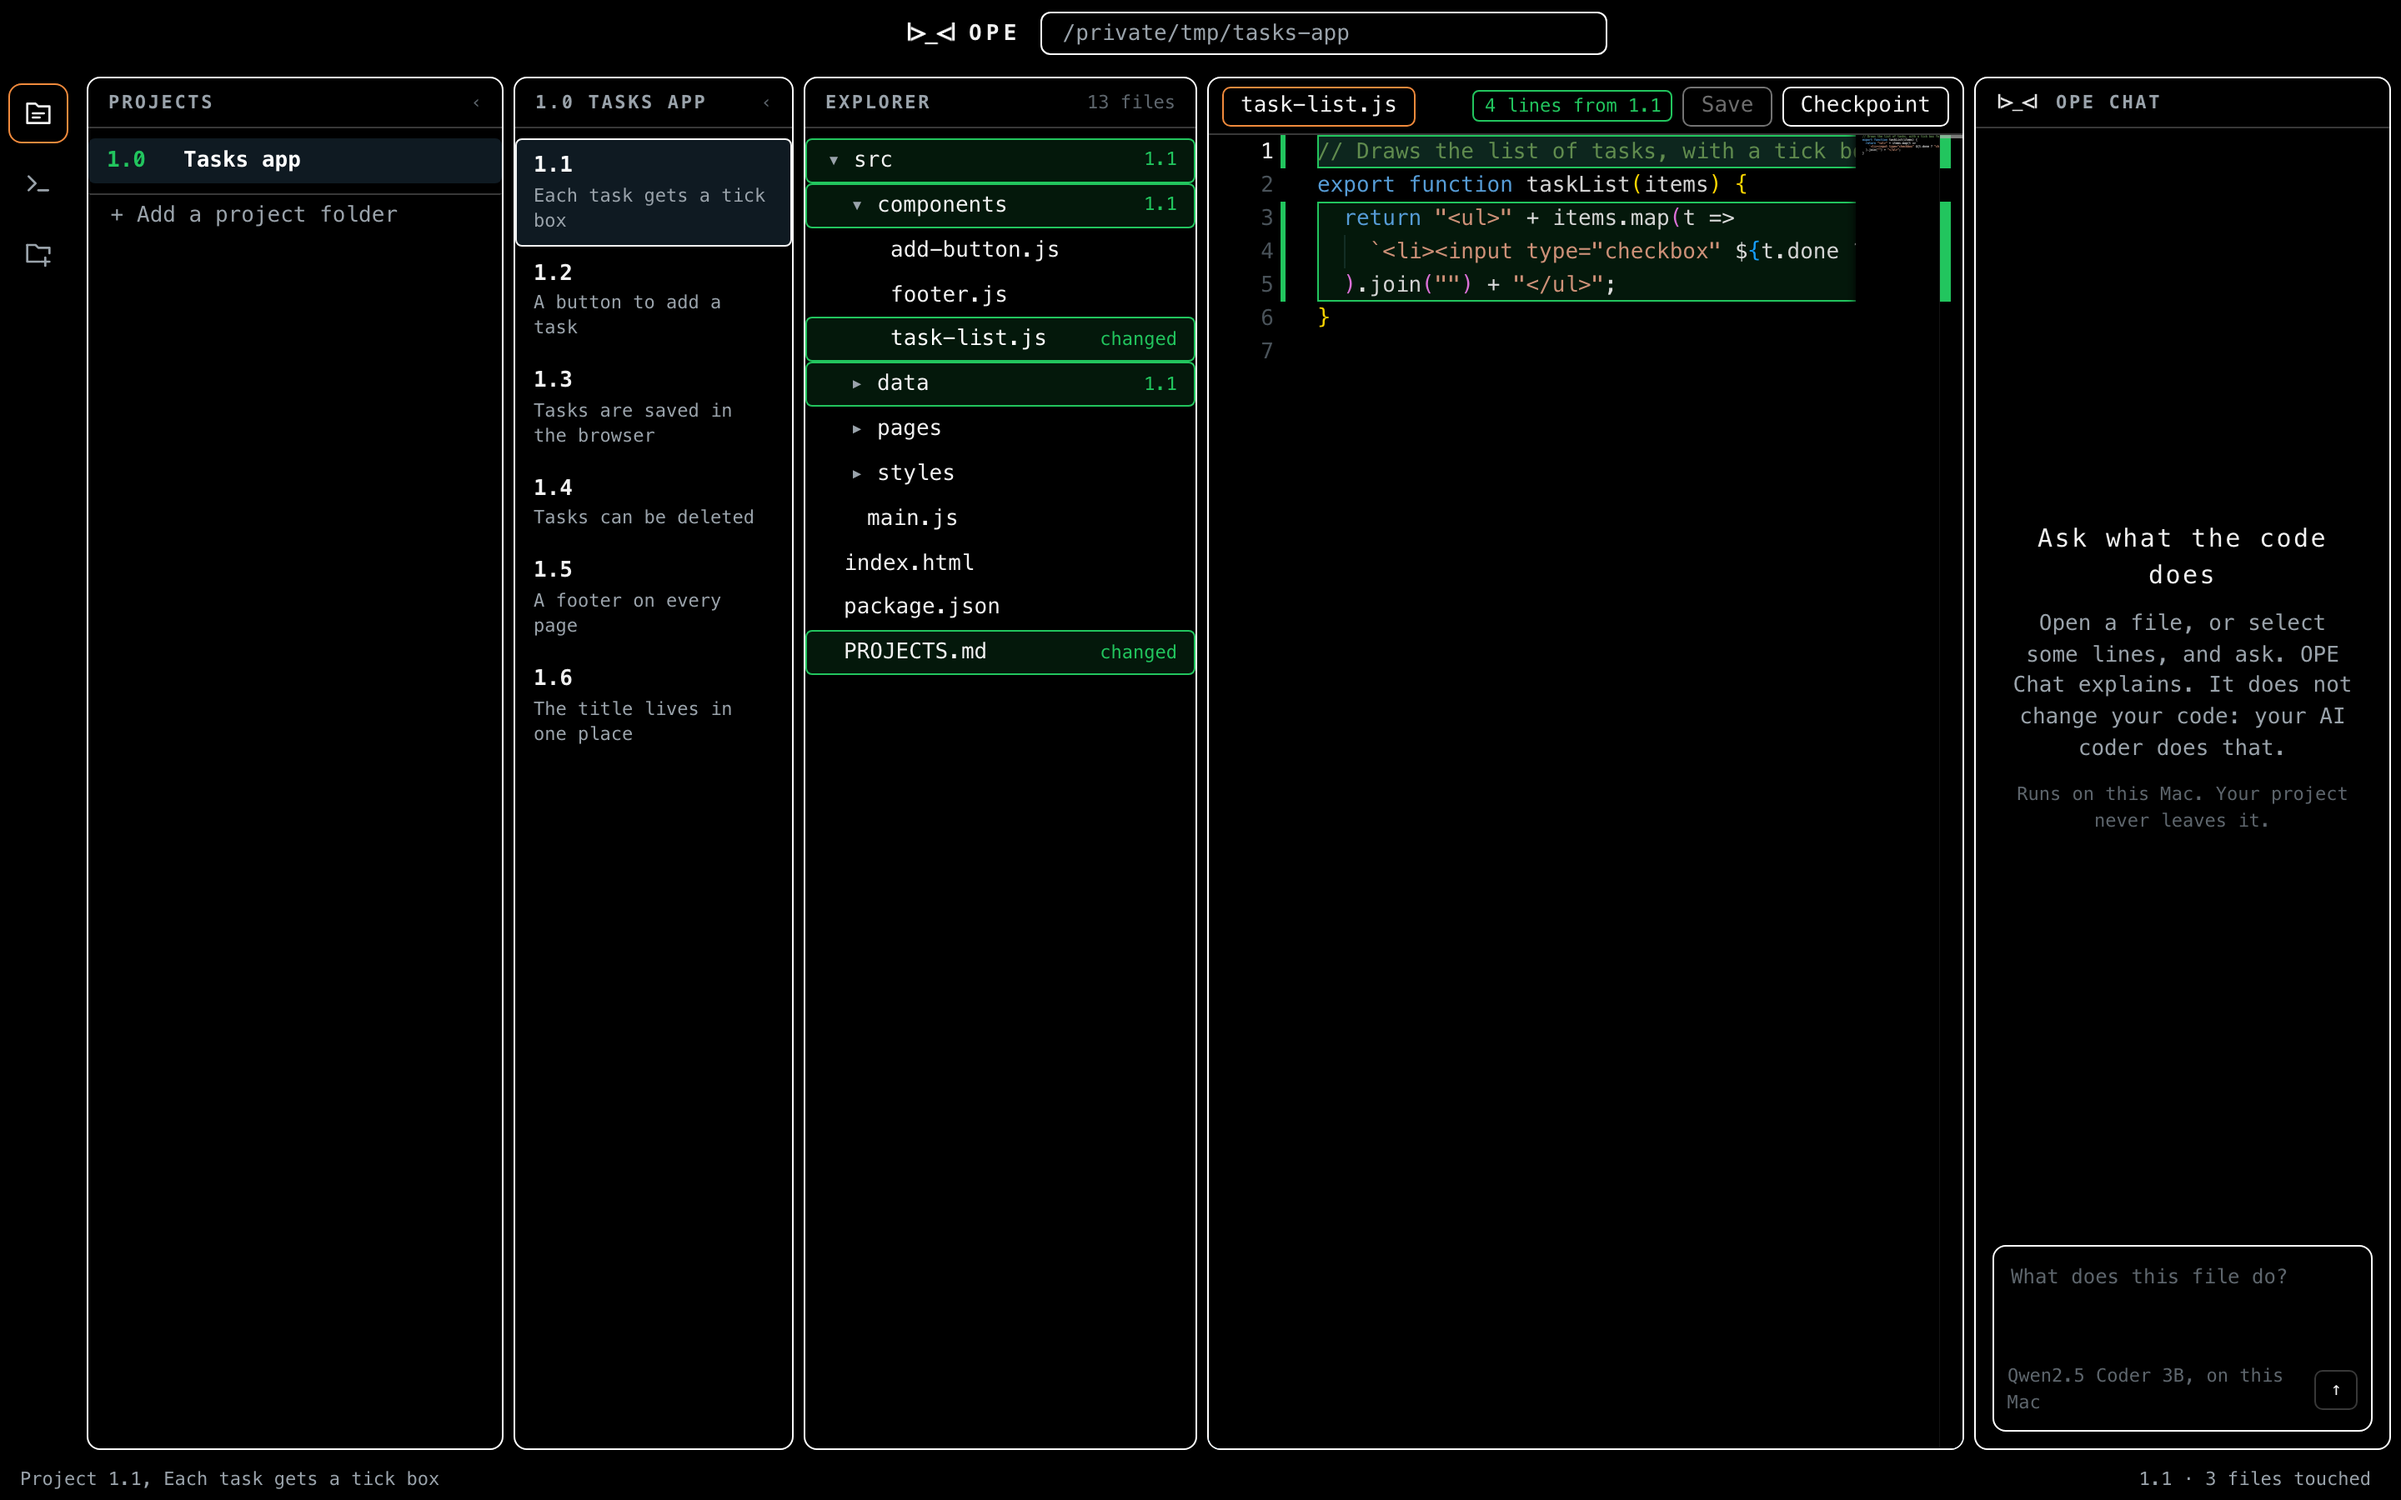
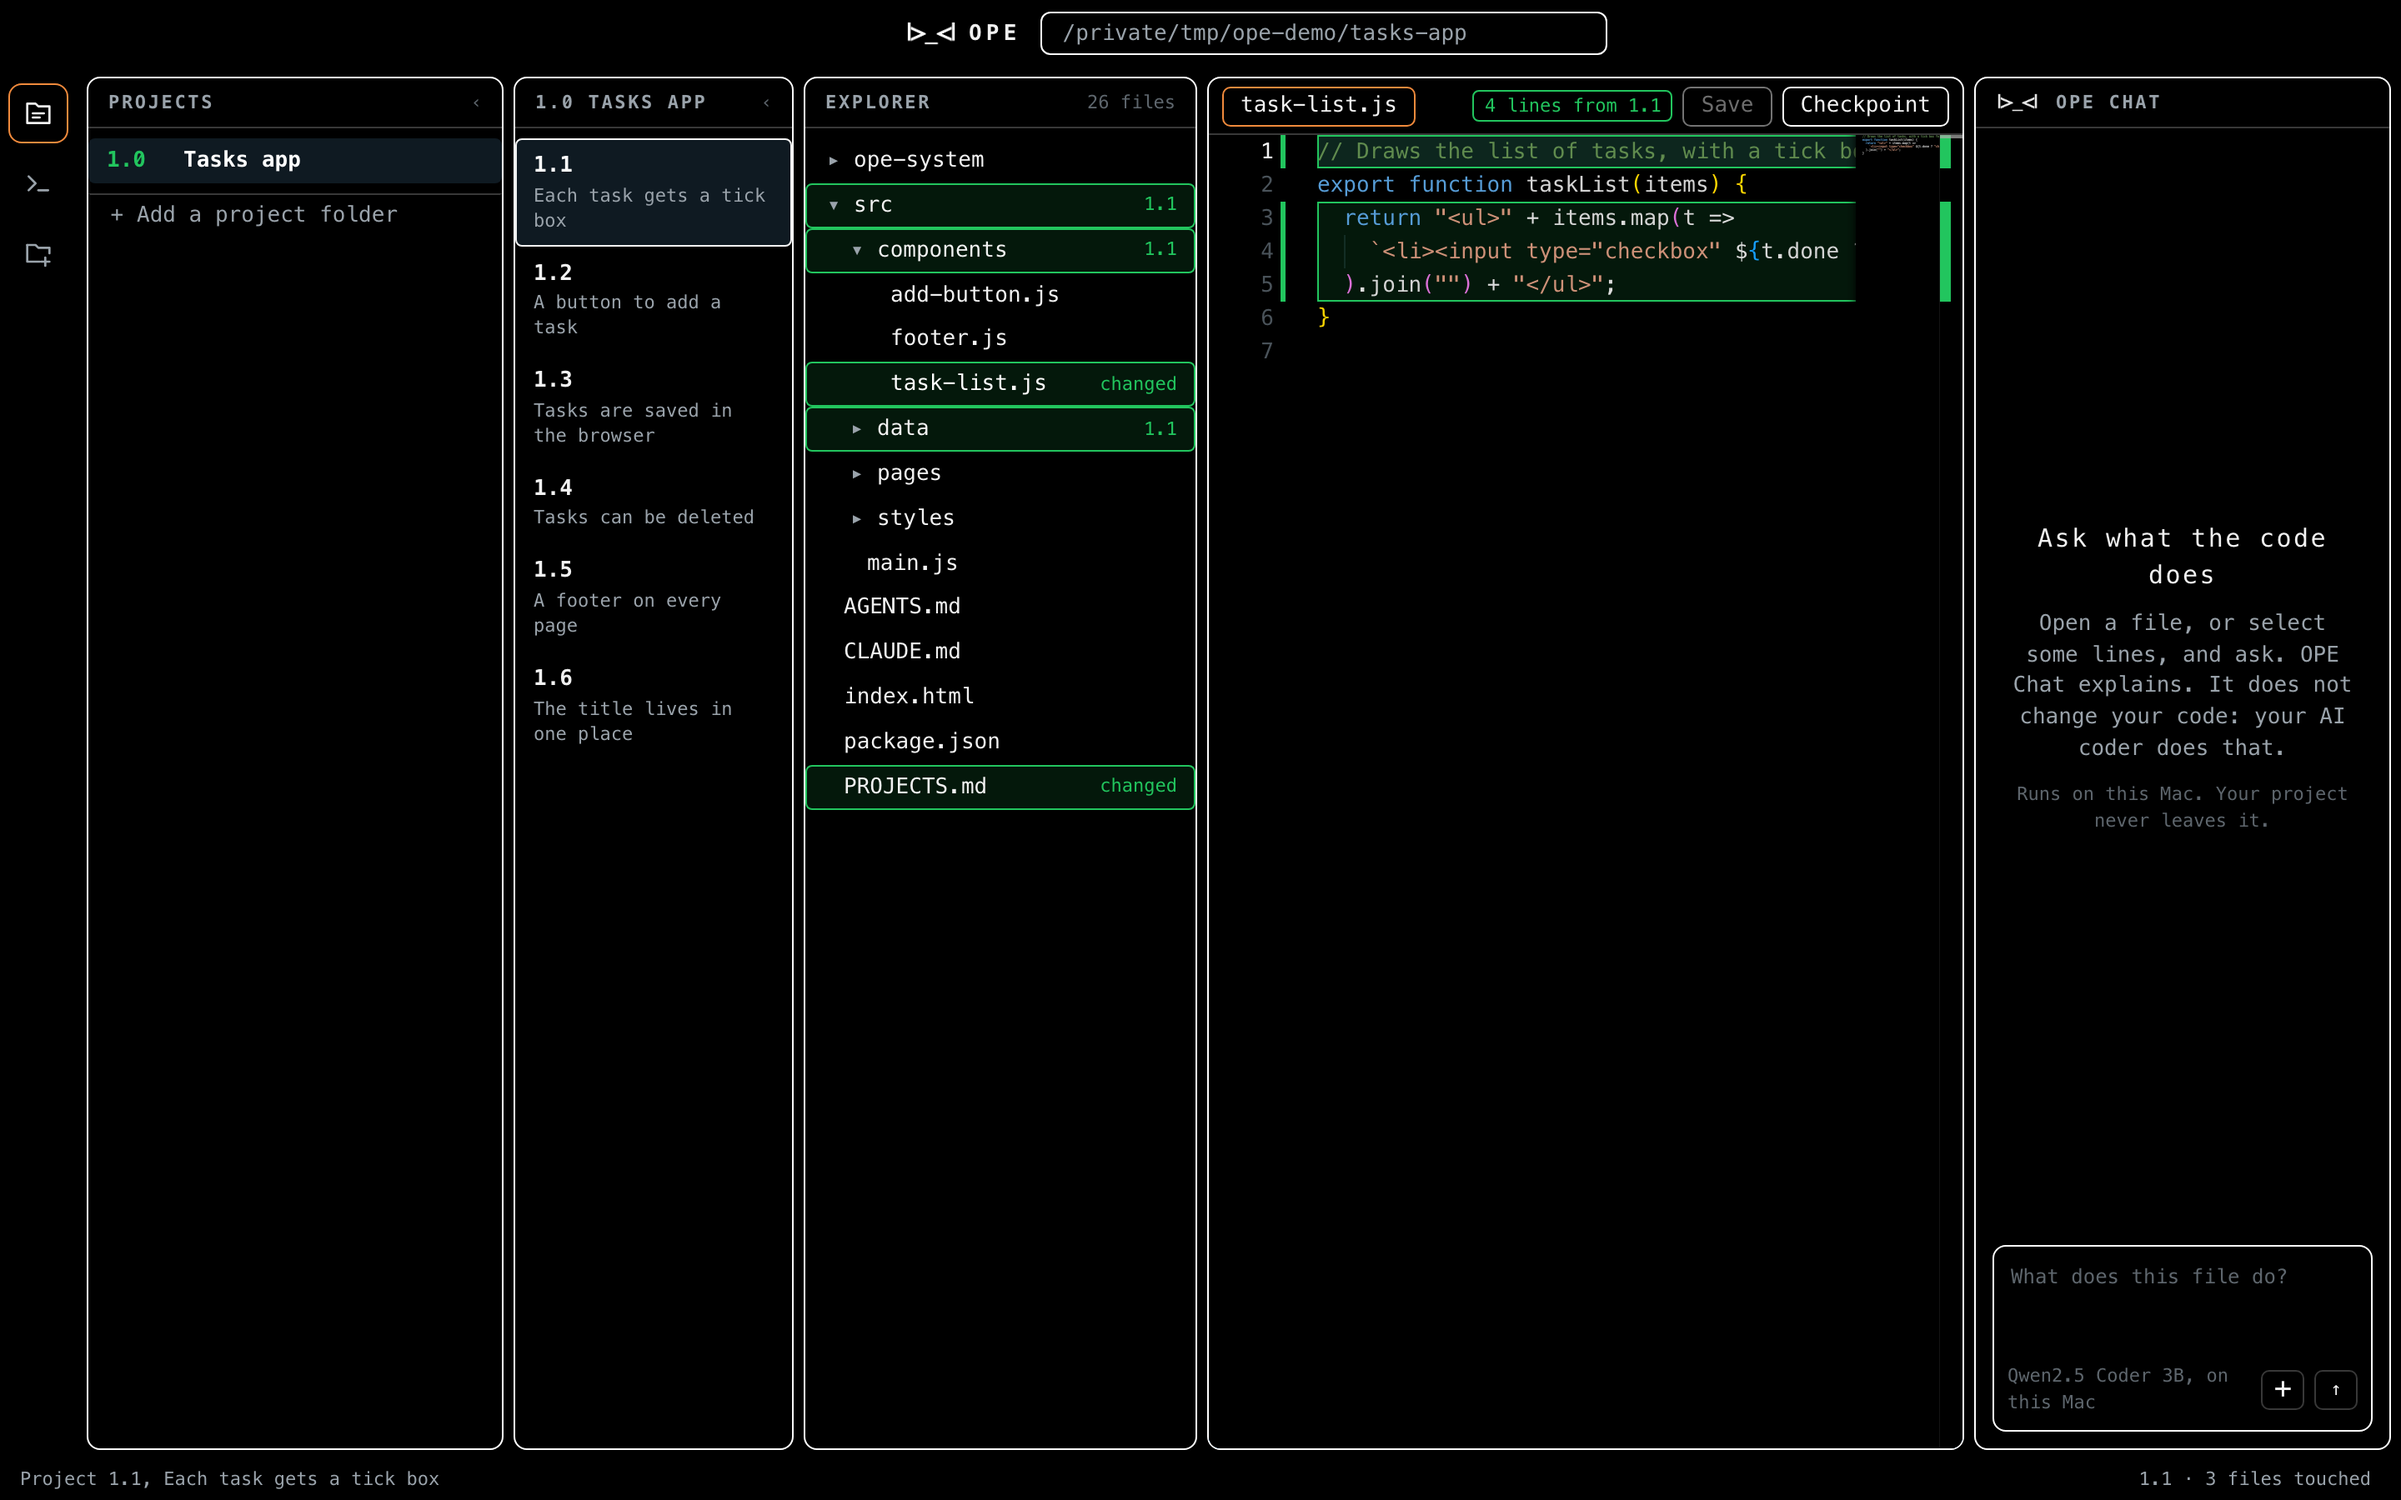
README: up to 47% from real use, Add OPE to this project, the system folder, projects by number, and new screenshots
bench/README.md says how the numbers were measured, what they do not show, and
what the scripted runs found.

diff --git a/README.md b/README.md
@@ -5,34 +5,78 @@
 **Out Past Engineering.** See the app your AI built, version by version.
 
 OPE is a free Mac app for vibe coders: people who build software by talking to an
-AI coder, and who can't see what is behind the screen. Give your AI the OPE
-prompt, build in numbered versions, then open the project in OPE and see exactly
-which folders, files and lines each version made.
+AI coder, and who can't see what is behind the screen. It gives your AI coder a
+way of working, then shows you exactly which folders, files and lines each version
+of your app made.
+
+**Working this way cut the full price tokens per commit by up to 47%, and the
+back and forth by 21%, in 63 days of real use.** [How that was measured](bench/README.md)
 
 ![A version picked: the folders it touched are boxed in green](docs/version.png)
 
+## Download
+
+[**Download OPE.dmg**](../../releases/latest/download/OPE.dmg), open it, and drag
+OPE into Applications. It is signed and notarized by Apple. OPE needs macOS 13 or
+newer and git, which comes with Apple's command line tools
+(`xcode-select --install`).
+
 ## How it works
 
-1. **Copy the prompt.** OPE opens with a prompt you give your AI coder (Claude
-   Code, Cursor, Codex, anything that edits files) once per project. It teaches
-   the AI to build in numbered versions, 1.0, 1.1, 1.2, and to save a checkpoint
-   at the end of each one.
-2. **Build.** Tell your AI: "project 1.0, build me ...". Then "project 1.1, add ...".
-3. **Open the folder in OPE.** Pick a project, then a version.
+1. **Add OPE to your project.** Open the project folder in OPE and press
+   **Add OPE to this project**. It puts two small files in the folder,
+   `AGENTS.md` and `CLAUDE.md`, which Claude Code, Cursor and Codex read by
+   themselves at the start of every chat, and an `ope-system` folder with the full
+   method. Nothing you already wrote is overwritten. For an AI tool that does not
+   read files, press **Copy the prompt** and paste it instead.
+2. **Build in numbered projects.** Tell your AI "project 1.0, build me ...". It asks
+   for a description, splits the work into what it builds and what only you can do
+   (a password, a payment, a decision), and asks once whether to take all of its
+   part. Changes are "project 1.1, add ...", and those are built straight away with
+   no new plan.
+3. **Every version is saved.** At the end of each version the AI saves a
+   checkpoint named with its number, and writes one line about it in
+   `PROJECTS.md`.
+4. **See it in OPE.** Pick a project, then a version.
    - Every folder that version touched gets a **green box**.
    - Open a folder and the files it touched are boxed.
    - Open a file and the **lines that version wrote** are boxed.
-4. **Fix it right there.** Edit the code, press Save (⌘S), and the real file
+5. **Fix it right there.** Edit the code, press Save (⌘S), and the real file
    changes. Press Checkpoint to keep your edit as its own save point.
-
-Keep every project folder you have in the Projects list. The open one expands to
-show its numbered projects, and any other opens with one click. The list is kept
-on your Mac only.
 
 OPE watches the folder. When your AI writes files or saves a new version, OPE
 updates on its own.
 
 ![A file open: the lines from version 1.1 are boxed in green](docs/lines.png)
+
+## Your projects, by number
+
+The Projects list keeps every project folder you work on. Whole numbers sit in the
+first column (1.0, 2.0). Pick one and its versions (1.1, 1.2, 1.3) open in the next
+column, each with a line saying what it did. The list is kept on your Mac only.
+
+## The system, as files
+
+![After Add OPE to this project: AGENTS.md, CLAUDE.md and the ope-system folder](docs/system.png)
+
+`AGENTS.md` is short on purpose: your AI coder rereads it on every step, so every
+extra word costs tokens. The rest of the method and the maps sit in `ope-system/`,
+and the AI opens one only when the work needs it, so they cost nothing until used.
+
+| In `ope-system/` | What it is |
+|---|---|
+| `method/rules.md` | The working rules, and why each one exists |
+| `method/project-opener.md` | How a whole number project starts |
+| `method/abcd.md` | How a project runs: split, build, refine, deploy |
+| `maps/app-store-launch.md` | An iPhone and iPad app onto the App Store, and the rejections that cost the most time |
+| `maps/android-desktop-downloads.md` | An Android app, a Windows installer and a Linux app from one Mac |
+| `maps/mac-app-from-github.md` | A Mac app people download: build, sign, notarize, release |
+| `maps/payments-for-your-customers.md` | Taking a payment for your customer's customer, with Stripe Connect |
+| `maps/offline-mac-tool.md` | A web tool made into a Mac app that works with no internet |
+| `maps/types-as-data.md` | Adding a new kind of customer as one database row |
+| `maps/founder-seo.md` | Making a founder show up in Google and AI answers |
+
+Every map was walked for real before it was written down.
 
 ## OPE Chat
 
@@ -44,18 +88,15 @@ the changes.
 It runs on your Mac and your project never leaves it. OPE uses Apple's own model
 when the Mac has Apple Intelligence (nothing to download), and otherwise
 Qwen2.5 Coder 3B through [Ollama](https://ollama.com), a one time 1.9 GB download
-OPE starts for you.
+OPE starts for you. It can also read the words in a picture, like a screenshot of
+an error: add it with the button, paste it, or drop it on the box.
 
-## Projects built without the prompt
+## Projects built without OPE
 
 They still open. The files always show. If the folder has a git history, every
 commit shows as a step. If it has none, OPE offers to start tracking it as 1.0.
 
-## Install
-
-Download `OPE.dmg` from [Releases](../../releases), open it, and drag OPE into
-Applications. OPE needs macOS 13 or newer and git, which comes with Apple's
-command line tools (`xcode-select --install`).
+![The welcome screen](docs/welcome.png)
 
 ## Build it yourself
 
@@ -70,22 +111,25 @@ Working on the interface in a browser:
 OPE_ROOT=/path/to/a/project npm run dev    # then open http://localhost:8790
 ```
 
+Adding the system to a folder from the command line:
+
+```
+/Applications/OPE.app/Contents/MacOS/OPE --install /path/to/project
+```
+
 ## How it is made
 
 | Part | What it does |
 |---|---|
-| `mac/main.swift` | The Mac window. Serves the interface from inside the app, opens folders, reads and writes files, runs git, watches the folder for changes |
-| `web/` | The interface: projects, versions, files and code. The code view is [Monaco](https://github.com/microsoft/monaco-editor), the editor inside VS Code, bundled so OPE works offline |
+| `mac/main.swift` | The Mac window. Serves the interface from inside the app, opens folders, reads and writes files, runs git, watches the folder, adds the system to a project |
+| `web/` | The interface: projects, versions, files, code and chat. The code view is [Monaco](https://github.com/microsoft/monaco-editor), the editor inside VS Code, bundled so OPE works offline |
 | `web/git.js` | Versions are git tags named `1.0`, `1.1`. What a version touched is the difference from the version before it. Which lines it wrote comes from `git blame` on the file as it is now |
-| `prompt/OPE-PROMPT.md` | The prompt your AI coder follows |
+| `system/` | What Add OPE to this project puts in a folder: `AGENTS.md`, `CLAUDE.md` and `ope-system/` |
+| `prompt/OPE-PROMPT.md` | The same method as one prompt, for tools that do not read files |
 | `scripts/dev-server.mjs` | Runs the same interface in a browser, answering the same commands the Mac app does |
+| `bench/` | The measurements behind the numbers above, and the scripts to repeat them |
 
 Your code never leaves your Mac. OPE has no account, no server and no tracking.
-
-## Coming soon
-
-**OPE Chat:** ask OPE about your project and build the next version without
-leaving the app.
 
 ## Licence
 

diff --git a/bench/README.md b/bench/README.md
@@ -1,0 +1,51 @@
+# How OPE's numbers were measured
+
+## Up to 47%: real use, before and after
+
+`history.mjs` reads the chats Claude Code keeps on the Mac it runs on, and the git
+history of the projects built in them. It calls no AI and sends nothing anywhere.
+
+The method was adopted on 30 August 2026. The comparison is 46 days of work before
+it against 17 days after, across 372 saved chats, 704 commits and 7 projects, with
+one commit as the unit of work:
+
+| Per commit | Before | After | Change |
+|---|---|---|---|
+| **Full price tokens** (new input, cache writes, output) | 864,000 | 458,000 | **47% fewer** |
+| AI output | 53,200 | 38,600 | 27% fewer |
+| Messages the person had to send | 8.0 | 6.3 | 21% fewer |
+| AI handing work back, like SQL to run (per 100 replies) | 3.6 | 3.0 | 17% fewer |
+| The person correcting the AI (per 100 messages) | 1.0 | 0.6 | 40% fewer |
+| All tokens, including cheap cache reads | 23.7M | 27.6M | 17% more |
+
+**Read it carefully:**
+
+- The saving is in the **expensive** tokens. Total tokens went up, because chats
+  grew longer and the AI rereads more cached history, which is billed at about a
+  tenth of the price. Weighted by price, the cost per commit fell by roughly 4 to 10%.
+- These are one person's projects, and the projects before and after are different
+  ones. It is real use, not a controlled experiment.
+- A commit is not an exact measure of work. Corrections and handoffs are counted by
+  matching words, so they are approximate.
+- This measured the method in use, with an experienced user enforcing it. A new
+  user with only `AGENTS.md` may see less.
+
+```
+node bench/history.mjs 2026-08-30 /path/to/repo /path/to/another/repo
+```
+
+## Scripted runs
+
+`run.mjs`, `files.sh` and `messy.mjs` give the same job to Claude Code with and
+without OPE and score the result: tokens as Claude Code reports them, hidden checks
+on the finished app (`check.mjs`) and an organisation checklist (`organize.mjs`).
+
+What they showed so far, and why they are not the headline:
+
+- **Organisation:** projects built with OPE scored 100% on the checklist against
+  29% without, with the same number of hidden checks passing (90%).
+- **Tokens:** an early version of the prompt, which stopped for approval before
+  every small change, used about twice the tokens. That rule was the problem and is
+  gone: changes are now built straight away. The current version has not been fully
+  run, because a scripted person sends perfect, complete messages and never needs
+  anything redone, which leaves out the back and forth where real tokens go.
